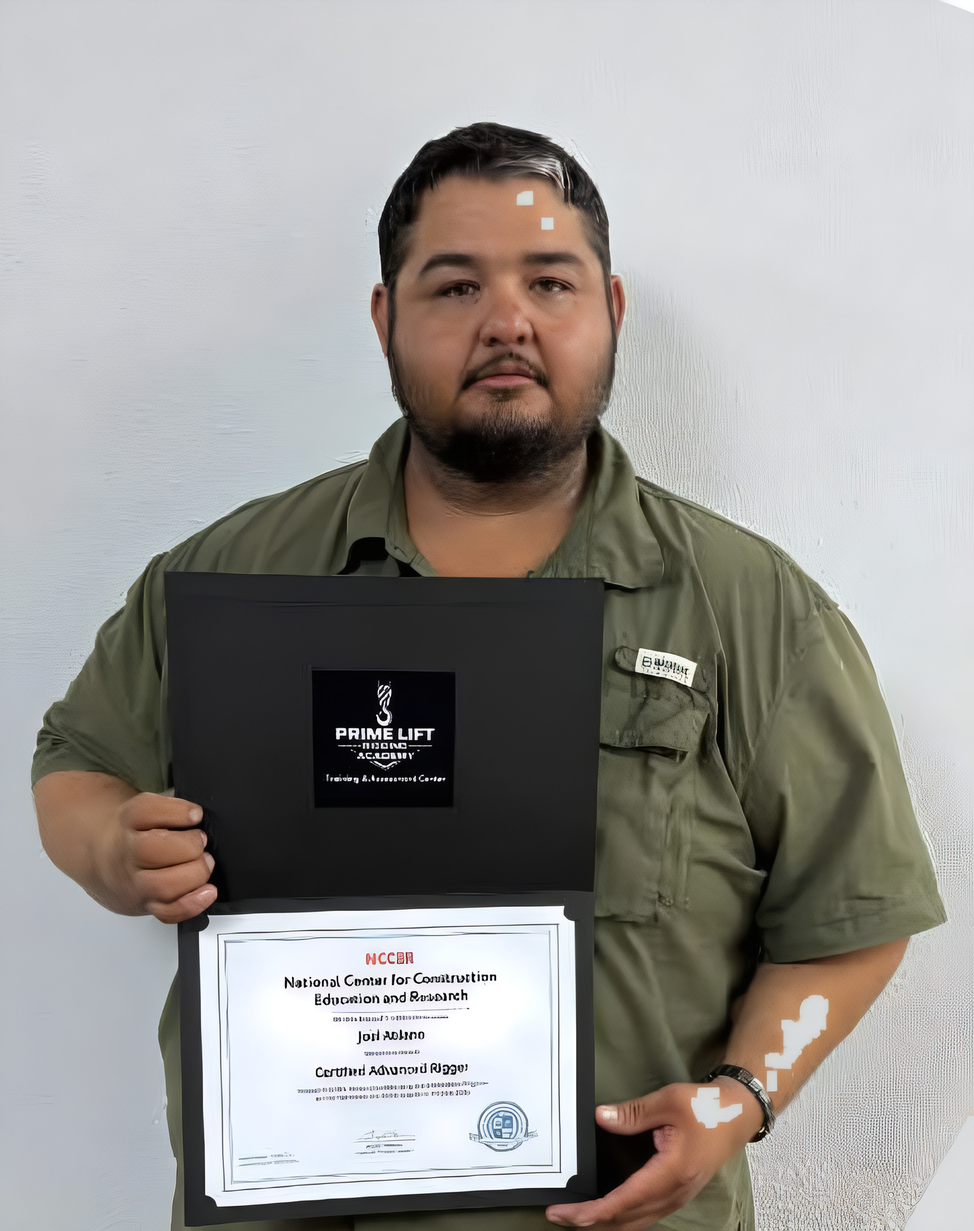
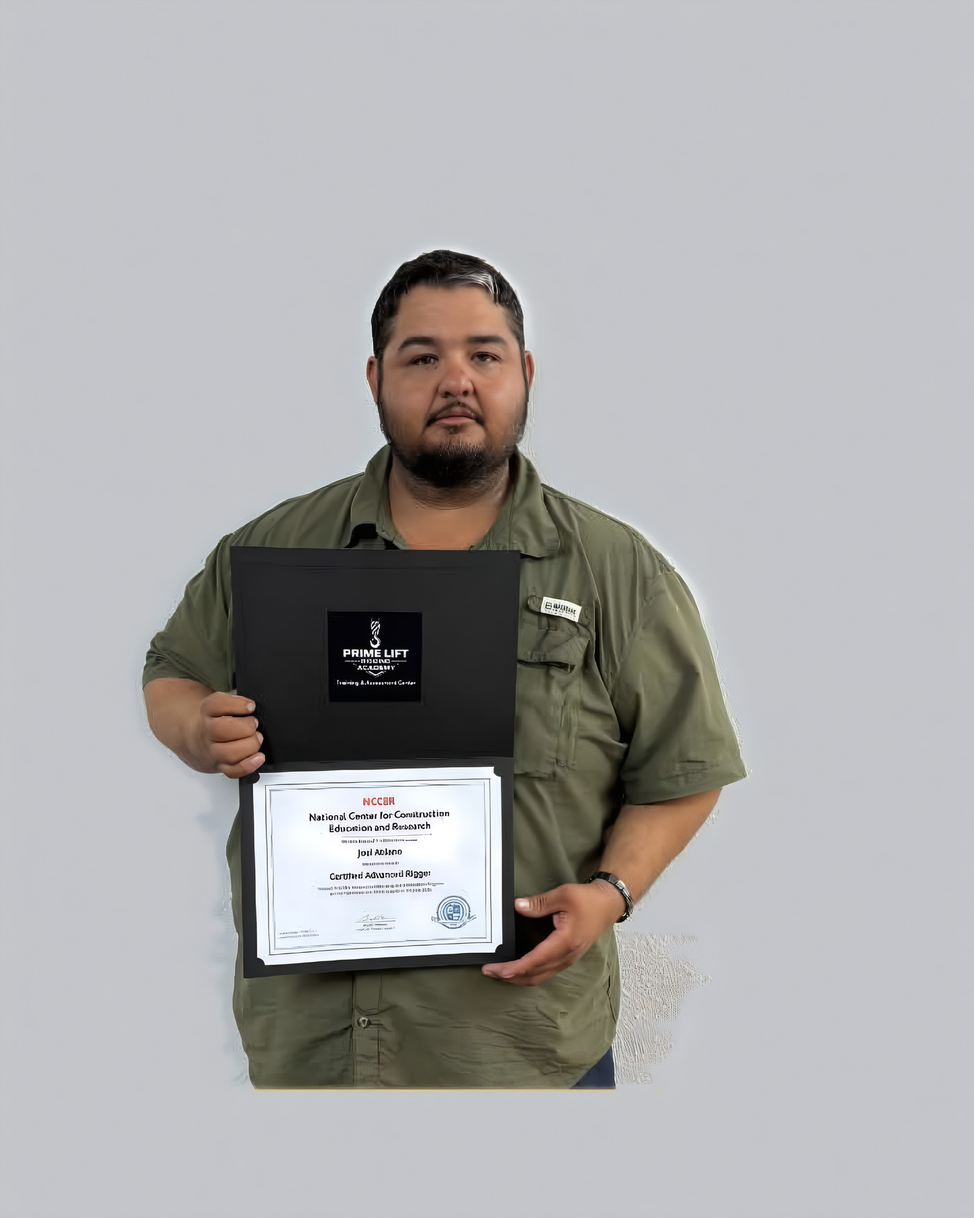
Hero: unified crossfade, Joel photo rebuilt zoomed-out; instructor names in reviews link to their pages
- .hero-slide fades photo, name and quote together; hidden slides visibility:hidden so their links leave the tab order; click on a link inside the hero no longer advances the slide
- Joel A. hero + panel photos rebuilt from the clean composite (flat wall, no forehead artifacts, smaller in frame, 4:5 crop ends at the shirt cut)
- Instructor first names (Frank, Andy/Andres, Juan) inside student reviews link to /instructors/<slug>/: build.py link_names() for generated review cards, hand-linked in index.html hero/gradwall/proof/list; a.iname styles per surface

diff --git a/reviews/index.html b/reviews/index.html
@@ -131,7 +131,7 @@
     <p class="lede">Every review here is from a real student, on Google or Facebook, in their own words.</p>
     <div class="hero-cta"><a class="btn btn-primary" href="https://www.google.com/maps/place/?cid=16553214961176374110" target="_blank" rel="noopener"><svg viewBox="0 0 24 24" fill="currentColor"><path d="M21.35 11.1H12v2.9h5.35c-.25 1.4-1.6 4.1-5.35 4.1a6.1 6.1 0 1 1 0-12.2c1.9 0 3.15.8 3.85 1.5l2.6-2.5A10 10 0 0 0 12 2a10 10 0 1 0 0 20c5.75 0 9.6-4.05 9.6-9.75 0-.65-.1-1.15-.25-1.15z"/></svg> Read Them On Google</a><a class="btn btn-ghost" href="/#schedule">Reserve Your Seat <svg viewBox="0 0 24 24" fill="none" stroke="currentColor" stroke-width="2.4" stroke-linecap="round" stroke-linejoin="round"><path d="M5 12h14"/><path d="m12 5 7 7-7 7"/></svg></a></div>
   </div>
-</section><section class="section"><div class="wrap"><div class="sec-head is-center rv"><p class="eyebrow is-center"><span class="idx">01</span>Reviews</p><h2 class="h-sec">What Students<br>Are Saying</h2></div><div class="rev-grid" data-orphan="2"><article class="rev rv"><span class="rev-quote">&ldquo;</span><span class="stars" role="img" aria-label="5 out of 5 stars"><svg viewBox="0 0 24 24" fill="currentColor"><path d="M12 2.5l2.9 6.1 6.6.8-4.9 4.6 1.3 6.6L12 17.3l-5.9 3.3 1.3-6.6L2.5 9.4l6.6-.8z"/></svg><svg viewBox="0 0 24 24" fill="currentColor"><path d="M12 2.5l2.9 6.1 6.6.8-4.9 4.6 1.3 6.6L12 17.3l-5.9 3.3 1.3-6.6L2.5 9.4l6.6-.8z"/></svg><svg viewBox="0 0 24 24" fill="currentColor"><path d="M12 2.5l2.9 6.1 6.6.8-4.9 4.6 1.3 6.6L12 17.3l-5.9 3.3 1.3-6.6L2.5 9.4l6.6-.8z"/></svg><svg viewBox="0 0 24 24" fill="currentColor"><path d="M12 2.5l2.9 6.1 6.6.8-4.9 4.6 1.3 6.6L12 17.3l-5.9 3.3 1.3-6.6L2.5 9.4l6.6-.8z"/></svg><svg viewBox="0 0 24 24" fill="currentColor"><path d="M12 2.5l2.9 6.1 6.6.8-4.9 4.6 1.3 6.6L12 17.3l-5.9 3.3 1.3-6.6L2.5 9.4l6.6-.8z"/></svg></span><p>Awesome experience, a lot of knowledge on all rigging, from forklifts to rigging I&#x27;ve never even seen or heard of. Great teachers and instructors, Frank and Andy will make sure you understand before moving on to the next lesson. 5/5 stars, highly recommend to any and everybody wanting to get their certifications.</p><div class="rev-who"><svg viewBox="0 0 24 24" fill="currentColor"><path d="M21.35 11.1H12v2.9h5.35c-.25 1.4-1.6 4.1-5.35 4.1a6.1 6.1 0 1 1 0-12.2c1.9 0 3.15.8 3.85 1.5l2.6-2.5A10 10 0 0 0 12 2a10 10 0 1 0 0 20c5.75 0 9.6-4.05 9.6-9.75 0-.65-.1-1.15-.25-1.15z"/></svg><span><b>Ryan P</b><span>5-star review on Google</span></span></div></article><article class="rev rv"><span class="rev-quote">&ldquo;</span><span class="stars" role="img" aria-label="5 out of 5 stars"><svg viewBox="0 0 24 24" fill="currentColor"><path d="M12 2.5l2.9 6.1 6.6.8-4.9 4.6 1.3 6.6L12 17.3l-5.9 3.3 1.3-6.6L2.5 9.4l6.6-.8z"/></svg><svg viewBox="0 0 24 24" fill="currentColor"><path d="M12 2.5l2.9 6.1 6.6.8-4.9 4.6 1.3 6.6L12 17.3l-5.9 3.3 1.3-6.6L2.5 9.4l6.6-.8z"/></svg><svg viewBox="0 0 24 24" fill="currentColor"><path d="M12 2.5l2.9 6.1 6.6.8-4.9 4.6 1.3 6.6L12 17.3l-5.9 3.3 1.3-6.6L2.5 9.4l6.6-.8z"/></svg><svg viewBox="0 0 24 24" fill="currentColor"><path d="M12 2.5l2.9 6.1 6.6.8-4.9 4.6 1.3 6.6L12 17.3l-5.9 3.3 1.3-6.6L2.5 9.4l6.6-.8z"/></svg><svg viewBox="0 0 24 24" fill="currentColor"><path d="M12 2.5l2.9 6.1 6.6.8-4.9 4.6 1.3 6.6L12 17.3l-5.9 3.3 1.3-6.6L2.5 9.4l6.6-.8z"/></svg></span><p>A lot of one-to-one explanation. All questions will be answered directly to you; the teacher will sit there and go over it as many times as you need until you understand. Definitely recommend.</p><div class="rev-who"><svg viewBox="0 0 24 24" fill="currentColor"><path d="M21.35 11.1H12v2.9h5.35c-.25 1.4-1.6 4.1-5.35 4.1a6.1 6.1 0 1 1 0-12.2c1.9 0 3.15.8 3.85 1.5l2.6-2.5A10 10 0 0 0 12 2a10 10 0 1 0 0 20c5.75 0 9.6-4.05 9.6-9.75 0-.65-.1-1.15-.25-1.15z"/></svg><span><b>Joshua Fonseca</b><span>5-star review on Google</span></span></div></article><article class="rev rv"><span class="rev-quote">&ldquo;</span><p>All you need to know, they will teach and guide you thru the process of getting your NCCER certification!</p><div class="rev-who"><svg viewBox="0 0 24 24" fill="currentColor"><path d="M9.101 23.691v-7.98H6.627v-3.667h2.474v-1.58c0-4.085 1.848-5.978 5.858-5.978.401 0 .955.042 1.468.103a8.68 8.68 0 0 1 1.141.195v3.325a8.623 8.623 0 0 0-.653-.036 26.805 26.805 0 0 0-.733-.009c-.707 0-1.259.096-1.675.309a1.686 1.686 0 0 0-.679.622c-.258.42-.374.995-.374 1.752v1.297h3.919l-.386 2.103-.287 1.564h-3.246v8.245C19.396 23.238 24 18.179 24 12.044c0-6.627-5.373-12-12-12s-12 5.373-12 12c0 5.628 3.874 10.35 9.101 11.647Z"/></svg><span><b>Viko Ledesma</b><span>Recommends on Facebook</span></span></div></article><article class="rev rv"><span class="rev-quote">&ldquo;</span><p>It&#x27;s a very great class, a lot of good information, and the instructor did an awesome job explaining the information.</p><div class="rev-who"><svg viewBox="0 0 24 24" fill="currentColor"><path d="M9.101 23.691v-7.98H6.627v-3.667h2.474v-1.58c0-4.085 1.848-5.978 5.858-5.978.401 0 .955.042 1.468.103a8.68 8.68 0 0 1 1.141.195v3.325a8.623 8.623 0 0 0-.653-.036 26.805 26.805 0 0 0-.733-.009c-.707 0-1.259.096-1.675.309a1.686 1.686 0 0 0-.679.622c-.258.42-.374.995-.374 1.752v1.297h3.919l-.386 2.103-.287 1.564h-3.246v8.245C19.396 23.238 24 18.179 24 12.044c0-6.627-5.373-12-12-12s-12 5.373-12 12c0 5.628 3.874 10.35 9.101 11.647Z"/></svg><span><b>Arturo Duran Jr.</b><span>Recommends on Facebook</span></span></div></article><article class="rev rv"><span class="rev-quote">&ldquo;</span><p>Great exercise, very professional. I recommend others to go through Prime Lift Rigging.</p><div class="rev-who"><svg viewBox="0 0 24 24" fill="currentColor"><path d="M9.101 23.691v-7.98H6.627v-3.667h2.474v-1.58c0-4.085 1.848-5.978 5.858-5.978.401 0 .955.042 1.468.103a8.68 8.68 0 0 1 1.141.195v3.325a8.623 8.623 0 0 0-.653-.036 26.805 26.805 0 0 0-.733-.009c-.707 0-1.259.096-1.675.309a1.686 1.686 0 0 0-.679.622c-.258.42-.374.995-.374 1.752v1.297h3.919l-.386 2.103-.287 1.564h-3.246v8.245C19.396 23.238 24 18.179 24 12.044c0-6.627-5.373-12-12-12s-12 5.373-12 12c0 5.628 3.874 10.35 9.101 11.647Z"/></svg><span><b>Michael Cervantes</b><span>Recommends on Facebook</span></span></div></article></div>
+</section><section class="section"><div class="wrap"><div class="sec-head is-center rv"><p class="eyebrow is-center"><span class="idx">01</span>Reviews</p><h2 class="h-sec">What Students<br>Are Saying</h2></div><div class="rev-grid" data-orphan="2"><article class="rev rv"><span class="rev-quote">&ldquo;</span><span class="stars" role="img" aria-label="5 out of 5 stars"><svg viewBox="0 0 24 24" fill="currentColor"><path d="M12 2.5l2.9 6.1 6.6.8-4.9 4.6 1.3 6.6L12 17.3l-5.9 3.3 1.3-6.6L2.5 9.4l6.6-.8z"/></svg><svg viewBox="0 0 24 24" fill="currentColor"><path d="M12 2.5l2.9 6.1 6.6.8-4.9 4.6 1.3 6.6L12 17.3l-5.9 3.3 1.3-6.6L2.5 9.4l6.6-.8z"/></svg><svg viewBox="0 0 24 24" fill="currentColor"><path d="M12 2.5l2.9 6.1 6.6.8-4.9 4.6 1.3 6.6L12 17.3l-5.9 3.3 1.3-6.6L2.5 9.4l6.6-.8z"/></svg><svg viewBox="0 0 24 24" fill="currentColor"><path d="M12 2.5l2.9 6.1 6.6.8-4.9 4.6 1.3 6.6L12 17.3l-5.9 3.3 1.3-6.6L2.5 9.4l6.6-.8z"/></svg><svg viewBox="0 0 24 24" fill="currentColor"><path d="M12 2.5l2.9 6.1 6.6.8-4.9 4.6 1.3 6.6L12 17.3l-5.9 3.3 1.3-6.6L2.5 9.4l6.6-.8z"/></svg></span><p>Awesome experience, a lot of knowledge on all rigging, from forklifts to rigging I&#x27;ve never even seen or heard of. Great teachers and instructors, <a class="iname" href="/instructors/frank-torres/" title="Meet Frank Torres, Advanced Rigging Instructor">Frank</a> and <a class="iname" href="/instructors/andres-herrera/" title="Meet Andres Herrera, Co-Founder · NCCER Practical Examiner">Andy</a> will make sure you understand before moving on to the next lesson. 5/5 stars, highly recommend to any and everybody wanting to get their certifications.</p><div class="rev-who"><svg viewBox="0 0 24 24" fill="currentColor"><path d="M21.35 11.1H12v2.9h5.35c-.25 1.4-1.6 4.1-5.35 4.1a6.1 6.1 0 1 1 0-12.2c1.9 0 3.15.8 3.85 1.5l2.6-2.5A10 10 0 0 0 12 2a10 10 0 1 0 0 20c5.75 0 9.6-4.05 9.6-9.75 0-.65-.1-1.15-.25-1.15z"/></svg><span><b>Ryan P</b><span>5-star review on Google</span></span></div></article><article class="rev rv"><span class="rev-quote">&ldquo;</span><span class="stars" role="img" aria-label="5 out of 5 stars"><svg viewBox="0 0 24 24" fill="currentColor"><path d="M12 2.5l2.9 6.1 6.6.8-4.9 4.6 1.3 6.6L12 17.3l-5.9 3.3 1.3-6.6L2.5 9.4l6.6-.8z"/></svg><svg viewBox="0 0 24 24" fill="currentColor"><path d="M12 2.5l2.9 6.1 6.6.8-4.9 4.6 1.3 6.6L12 17.3l-5.9 3.3 1.3-6.6L2.5 9.4l6.6-.8z"/></svg><svg viewBox="0 0 24 24" fill="currentColor"><path d="M12 2.5l2.9 6.1 6.6.8-4.9 4.6 1.3 6.6L12 17.3l-5.9 3.3 1.3-6.6L2.5 9.4l6.6-.8z"/></svg><svg viewBox="0 0 24 24" fill="currentColor"><path d="M12 2.5l2.9 6.1 6.6.8-4.9 4.6 1.3 6.6L12 17.3l-5.9 3.3 1.3-6.6L2.5 9.4l6.6-.8z"/></svg><svg viewBox="0 0 24 24" fill="currentColor"><path d="M12 2.5l2.9 6.1 6.6.8-4.9 4.6 1.3 6.6L12 17.3l-5.9 3.3 1.3-6.6L2.5 9.4l6.6-.8z"/></svg></span><p>A lot of one-to-one explanation. All questions will be answered directly to you; the teacher will sit there and go over it as many times as you need until you understand. Definitely recommend.</p><div class="rev-who"><svg viewBox="0 0 24 24" fill="currentColor"><path d="M21.35 11.1H12v2.9h5.35c-.25 1.4-1.6 4.1-5.35 4.1a6.1 6.1 0 1 1 0-12.2c1.9 0 3.15.8 3.85 1.5l2.6-2.5A10 10 0 0 0 12 2a10 10 0 1 0 0 20c5.75 0 9.6-4.05 9.6-9.75 0-.65-.1-1.15-.25-1.15z"/></svg><span><b>Joshua Fonseca</b><span>5-star review on Google</span></span></div></article><article class="rev rv"><span class="rev-quote">&ldquo;</span><p>All you need to know, they will teach and guide you thru the process of getting your NCCER certification!</p><div class="rev-who"><svg viewBox="0 0 24 24" fill="currentColor"><path d="M9.101 23.691v-7.98H6.627v-3.667h2.474v-1.58c0-4.085 1.848-5.978 5.858-5.978.401 0 .955.042 1.468.103a8.68 8.68 0 0 1 1.141.195v3.325a8.623 8.623 0 0 0-.653-.036 26.805 26.805 0 0 0-.733-.009c-.707 0-1.259.096-1.675.309a1.686 1.686 0 0 0-.679.622c-.258.42-.374.995-.374 1.752v1.297h3.919l-.386 2.103-.287 1.564h-3.246v8.245C19.396 23.238 24 18.179 24 12.044c0-6.627-5.373-12-12-12s-12 5.373-12 12c0 5.628 3.874 10.35 9.101 11.647Z"/></svg><span><b>Viko Ledesma</b><span>Recommends on Facebook</span></span></div></article><article class="rev rv"><span class="rev-quote">&ldquo;</span><p>It&#x27;s a very great class, a lot of good information, and the instructor did an awesome job explaining the information.</p><div class="rev-who"><svg viewBox="0 0 24 24" fill="currentColor"><path d="M9.101 23.691v-7.98H6.627v-3.667h2.474v-1.58c0-4.085 1.848-5.978 5.858-5.978.401 0 .955.042 1.468.103a8.68 8.68 0 0 1 1.141.195v3.325a8.623 8.623 0 0 0-.653-.036 26.805 26.805 0 0 0-.733-.009c-.707 0-1.259.096-1.675.309a1.686 1.686 0 0 0-.679.622c-.258.42-.374.995-.374 1.752v1.297h3.919l-.386 2.103-.287 1.564h-3.246v8.245C19.396 23.238 24 18.179 24 12.044c0-6.627-5.373-12-12-12s-12 5.373-12 12c0 5.628 3.874 10.35 9.101 11.647Z"/></svg><span><b>Arturo Duran Jr.</b><span>Recommends on Facebook</span></span></div></article><article class="rev rv"><span class="rev-quote">&ldquo;</span><p>Great exercise, very professional. I recommend others to go through Prime Lift Rigging.</p><div class="rev-who"><svg viewBox="0 0 24 24" fill="currentColor"><path d="M9.101 23.691v-7.98H6.627v-3.667h2.474v-1.58c0-4.085 1.848-5.978 5.858-5.978.401 0 .955.042 1.468.103a8.68 8.68 0 0 1 1.141.195v3.325a8.623 8.623 0 0 0-.653-.036 26.805 26.805 0 0 0-.733-.009c-.707 0-1.259.096-1.675.309a1.686 1.686 0 0 0-.679.622c-.258.42-.374.995-.374 1.752v1.297h3.919l-.386 2.103-.287 1.564h-3.246v8.245C19.396 23.238 24 18.179 24 12.044c0-6.627-5.373-12-12-12s-12 5.373-12 12c0 5.628 3.874 10.35 9.101 11.647Z"/></svg><span><b>Michael Cervantes</b><span>Recommends on Facebook</span></span></div></article></div>
   <div class="gal rv">
     <figure><img src="/img/grad-johnny.jpg" alt="Prime Lift graduate holding an NCCER Certified Advanced Rigger certificate" loading="lazy"><figcaption>Certified Advanced Rigger</figcaption></figure>
     <figure><img src="/img/grad-leonel.jpg" alt="Prime Lift graduate holding an NCCER Certified Advanced Rigger certificate" loading="lazy"><figcaption>Certified Advanced Rigger</figcaption></figure>

diff --git a/instructors/index.html b/instructors/index.html
@@ -143,7 +143,7 @@
       <a class="person rv" href="/instructors/frank-torres/">
         <div class="person-img"><img src="/img/team-frank.jpg" alt="Frank Torres at a heavy lift jobsite with crawler cranes" loading="lazy"></div>
         <div class="person-body"><span class="person-role">Advanced Rigging Instructor</span><h3>Frank Torres</h3><p>Frank is an NCCER Advanced Rigger and Signal Person with more than 10 years of crane and rigging experience, and he brings all of it into the classroom.</p><span class="person-more">Read more <svg viewBox="0 0 24 24" fill="none" stroke="currentColor" stroke-width="2.4" stroke-linecap="round" stroke-linejoin="round"><path d="M5 12h14"/><path d="m12 5 7 7-7 7"/></svg></span></div>
-      </a></div></div></section><section class="section alt"><div class="wrap"><div class="sec-head is-center rv"><p class="eyebrow is-center"><span class="idx">02</span>Straight From Our Students</p><h2 class="h-sec">What Students Say<br>About The Teaching</h2></div><div class="rev-grid" data-orphan="0"><article class="rev rv"><span class="rev-quote">&ldquo;</span><span class="stars" role="img" aria-label="5 out of 5 stars"><svg viewBox="0 0 24 24" fill="currentColor"><path d="M12 2.5l2.9 6.1 6.6.8-4.9 4.6 1.3 6.6L12 17.3l-5.9 3.3 1.3-6.6L2.5 9.4l6.6-.8z"/></svg><svg viewBox="0 0 24 24" fill="currentColor"><path d="M12 2.5l2.9 6.1 6.6.8-4.9 4.6 1.3 6.6L12 17.3l-5.9 3.3 1.3-6.6L2.5 9.4l6.6-.8z"/></svg><svg viewBox="0 0 24 24" fill="currentColor"><path d="M12 2.5l2.9 6.1 6.6.8-4.9 4.6 1.3 6.6L12 17.3l-5.9 3.3 1.3-6.6L2.5 9.4l6.6-.8z"/></svg><svg viewBox="0 0 24 24" fill="currentColor"><path d="M12 2.5l2.9 6.1 6.6.8-4.9 4.6 1.3 6.6L12 17.3l-5.9 3.3 1.3-6.6L2.5 9.4l6.6-.8z"/></svg><svg viewBox="0 0 24 24" fill="currentColor"><path d="M12 2.5l2.9 6.1 6.6.8-4.9 4.6 1.3 6.6L12 17.3l-5.9 3.3 1.3-6.6L2.5 9.4l6.6-.8z"/></svg></span><p>Awesome experience, a lot of knowledge on all rigging, from forklifts to rigging I&#x27;ve never even seen or heard of. Great teachers and instructors, Frank and Andy will make sure you understand before moving on to the next lesson. 5/5 stars, highly recommend to any and everybody wanting to get their certifications.</p><div class="rev-who"><svg viewBox="0 0 24 24" fill="currentColor"><path d="M21.35 11.1H12v2.9h5.35c-.25 1.4-1.6 4.1-5.35 4.1a6.1 6.1 0 1 1 0-12.2c1.9 0 3.15.8 3.85 1.5l2.6-2.5A10 10 0 0 0 12 2a10 10 0 1 0 0 20c5.75 0 9.6-4.05 9.6-9.75 0-.65-.1-1.15-.25-1.15z"/></svg><span><b>Ryan P</b><span>5-star review on Google</span></span></div></article><article class="rev rv"><span class="rev-quote">&ldquo;</span><span class="stars" role="img" aria-label="5 out of 5 stars"><svg viewBox="0 0 24 24" fill="currentColor"><path d="M12 2.5l2.9 6.1 6.6.8-4.9 4.6 1.3 6.6L12 17.3l-5.9 3.3 1.3-6.6L2.5 9.4l6.6-.8z"/></svg><svg viewBox="0 0 24 24" fill="currentColor"><path d="M12 2.5l2.9 6.1 6.6.8-4.9 4.6 1.3 6.6L12 17.3l-5.9 3.3 1.3-6.6L2.5 9.4l6.6-.8z"/></svg><svg viewBox="0 0 24 24" fill="currentColor"><path d="M12 2.5l2.9 6.1 6.6.8-4.9 4.6 1.3 6.6L12 17.3l-5.9 3.3 1.3-6.6L2.5 9.4l6.6-.8z"/></svg><svg viewBox="0 0 24 24" fill="currentColor"><path d="M12 2.5l2.9 6.1 6.6.8-4.9 4.6 1.3 6.6L12 17.3l-5.9 3.3 1.3-6.6L2.5 9.4l6.6-.8z"/></svg><svg viewBox="0 0 24 24" fill="currentColor"><path d="M12 2.5l2.9 6.1 6.6.8-4.9 4.6 1.3 6.6L12 17.3l-5.9 3.3 1.3-6.6L2.5 9.4l6.6-.8z"/></svg></span><p>A lot of one-to-one explanation. All questions will be answered directly to you; the teacher will sit there and go over it as many times as you need until you understand. Definitely recommend.</p><div class="rev-who"><svg viewBox="0 0 24 24" fill="currentColor"><path d="M21.35 11.1H12v2.9h5.35c-.25 1.4-1.6 4.1-5.35 4.1a6.1 6.1 0 1 1 0-12.2c1.9 0 3.15.8 3.85 1.5l2.6-2.5A10 10 0 0 0 12 2a10 10 0 1 0 0 20c5.75 0 9.6-4.05 9.6-9.75 0-.65-.1-1.15-.25-1.15z"/></svg><span><b>Joshua Fonseca</b><span>5-star review on Google</span></span></div></article><article class="rev rv"><span class="rev-quote">&ldquo;</span><p>It&#x27;s a very great class, a lot of good information, and the instructor did an awesome job explaining the information.</p><div class="rev-who"><svg viewBox="0 0 24 24" fill="currentColor"><path d="M9.101 23.691v-7.98H6.627v-3.667h2.474v-1.58c0-4.085 1.848-5.978 5.858-5.978.401 0 .955.042 1.468.103a8.68 8.68 0 0 1 1.141.195v3.325a8.623 8.623 0 0 0-.653-.036 26.805 26.805 0 0 0-.733-.009c-.707 0-1.259.096-1.675.309a1.686 1.686 0 0 0-.679.622c-.258.42-.374.995-.374 1.752v1.297h3.919l-.386 2.103-.287 1.564h-3.246v8.245C19.396 23.238 24 18.179 24 12.044c0-6.627-5.373-12-12-12s-12 5.373-12 12c0 5.628 3.874 10.35 9.101 11.647Z"/></svg><span><b>Arturo Duran Jr.</b><span>Recommends on Facebook</span></span></div></article></div></div></section><section class="band">
+      </a></div></div></section><section class="section alt"><div class="wrap"><div class="sec-head is-center rv"><p class="eyebrow is-center"><span class="idx">02</span>Straight From Our Students</p><h2 class="h-sec">What Students Say<br>About The Teaching</h2></div><div class="rev-grid" data-orphan="0"><article class="rev rv"><span class="rev-quote">&ldquo;</span><span class="stars" role="img" aria-label="5 out of 5 stars"><svg viewBox="0 0 24 24" fill="currentColor"><path d="M12 2.5l2.9 6.1 6.6.8-4.9 4.6 1.3 6.6L12 17.3l-5.9 3.3 1.3-6.6L2.5 9.4l6.6-.8z"/></svg><svg viewBox="0 0 24 24" fill="currentColor"><path d="M12 2.5l2.9 6.1 6.6.8-4.9 4.6 1.3 6.6L12 17.3l-5.9 3.3 1.3-6.6L2.5 9.4l6.6-.8z"/></svg><svg viewBox="0 0 24 24" fill="currentColor"><path d="M12 2.5l2.9 6.1 6.6.8-4.9 4.6 1.3 6.6L12 17.3l-5.9 3.3 1.3-6.6L2.5 9.4l6.6-.8z"/></svg><svg viewBox="0 0 24 24" fill="currentColor"><path d="M12 2.5l2.9 6.1 6.6.8-4.9 4.6 1.3 6.6L12 17.3l-5.9 3.3 1.3-6.6L2.5 9.4l6.6-.8z"/></svg><svg viewBox="0 0 24 24" fill="currentColor"><path d="M12 2.5l2.9 6.1 6.6.8-4.9 4.6 1.3 6.6L12 17.3l-5.9 3.3 1.3-6.6L2.5 9.4l6.6-.8z"/></svg></span><p>Awesome experience, a lot of knowledge on all rigging, from forklifts to rigging I&#x27;ve never even seen or heard of. Great teachers and instructors, <a class="iname" href="/instructors/frank-torres/" title="Meet Frank Torres, Advanced Rigging Instructor">Frank</a> and <a class="iname" href="/instructors/andres-herrera/" title="Meet Andres Herrera, Co-Founder · NCCER Practical Examiner">Andy</a> will make sure you understand before moving on to the next lesson. 5/5 stars, highly recommend to any and everybody wanting to get their certifications.</p><div class="rev-who"><svg viewBox="0 0 24 24" fill="currentColor"><path d="M21.35 11.1H12v2.9h5.35c-.25 1.4-1.6 4.1-5.35 4.1a6.1 6.1 0 1 1 0-12.2c1.9 0 3.15.8 3.85 1.5l2.6-2.5A10 10 0 0 0 12 2a10 10 0 1 0 0 20c5.75 0 9.6-4.05 9.6-9.75 0-.65-.1-1.15-.25-1.15z"/></svg><span><b>Ryan P</b><span>5-star review on Google</span></span></div></article><article class="rev rv"><span class="rev-quote">&ldquo;</span><span class="stars" role="img" aria-label="5 out of 5 stars"><svg viewBox="0 0 24 24" fill="currentColor"><path d="M12 2.5l2.9 6.1 6.6.8-4.9 4.6 1.3 6.6L12 17.3l-5.9 3.3 1.3-6.6L2.5 9.4l6.6-.8z"/></svg><svg viewBox="0 0 24 24" fill="currentColor"><path d="M12 2.5l2.9 6.1 6.6.8-4.9 4.6 1.3 6.6L12 17.3l-5.9 3.3 1.3-6.6L2.5 9.4l6.6-.8z"/></svg><svg viewBox="0 0 24 24" fill="currentColor"><path d="M12 2.5l2.9 6.1 6.6.8-4.9 4.6 1.3 6.6L12 17.3l-5.9 3.3 1.3-6.6L2.5 9.4l6.6-.8z"/></svg><svg viewBox="0 0 24 24" fill="currentColor"><path d="M12 2.5l2.9 6.1 6.6.8-4.9 4.6 1.3 6.6L12 17.3l-5.9 3.3 1.3-6.6L2.5 9.4l6.6-.8z"/></svg><svg viewBox="0 0 24 24" fill="currentColor"><path d="M12 2.5l2.9 6.1 6.6.8-4.9 4.6 1.3 6.6L12 17.3l-5.9 3.3 1.3-6.6L2.5 9.4l6.6-.8z"/></svg></span><p>A lot of one-to-one explanation. All questions will be answered directly to you; the teacher will sit there and go over it as many times as you need until you understand. Definitely recommend.</p><div class="rev-who"><svg viewBox="0 0 24 24" fill="currentColor"><path d="M21.35 11.1H12v2.9h5.35c-.25 1.4-1.6 4.1-5.35 4.1a6.1 6.1 0 1 1 0-12.2c1.9 0 3.15.8 3.85 1.5l2.6-2.5A10 10 0 0 0 12 2a10 10 0 1 0 0 20c5.75 0 9.6-4.05 9.6-9.75 0-.65-.1-1.15-.25-1.15z"/></svg><span><b>Joshua Fonseca</b><span>5-star review on Google</span></span></div></article><article class="rev rv"><span class="rev-quote">&ldquo;</span><p>It&#x27;s a very great class, a lot of good information, and the instructor did an awesome job explaining the information.</p><div class="rev-who"><svg viewBox="0 0 24 24" fill="currentColor"><path d="M9.101 23.691v-7.98H6.627v-3.667h2.474v-1.58c0-4.085 1.848-5.978 5.858-5.978.401 0 .955.042 1.468.103a8.68 8.68 0 0 1 1.141.195v3.325a8.623 8.623 0 0 0-.653-.036 26.805 26.805 0 0 0-.733-.009c-.707 0-1.259.096-1.675.309a1.686 1.686 0 0 0-.679.622c-.258.42-.374.995-.374 1.752v1.297h3.919l-.386 2.103-.287 1.564h-3.246v8.245C19.396 23.238 24 18.179 24 12.044c0-6.627-5.373-12-12-12s-12 5.373-12 12c0 5.628 3.874 10.35 9.101 11.647Z"/></svg><span><b>Arturo Duran Jr.</b><span>Recommends on Facebook</span></span></div></article></div></div></section><section class="band">
   <div class="band-bg" aria-hidden="true"><img src="/img/bg-crane-golden.jpg" alt="" loading="lazy"></div>
   <div class="wrap band-in rv">
     <div class="chev-div"><img class="chev" src="/img/chevron.png" alt=""></div>

diff --git a/index.html b/index.html
@@ -169,7 +169,7 @@
           <img src="img/grad-dustin.jpg" alt="Dustin T., a Prime Lift graduate, holding his NCCER Certified Advanced Rigger certificate" width="1400" height="1750" fetchpriority="high">
           <figcaption><b>Dustin T.</b><span>Certified Advanced Rigger</span></figcaption>
         </figure>
-        <q>Best class ever. They give all the information so you don't fail. Frank and Andy do an excellent job to make sure you are trained right.</q>
+        <q>Best class ever. They give all the information so you don't fail. <a class="iname" href="/instructors/frank-torres/" title="Meet Frank Torres, Advanced Rigging Instructor">Frank</a> and <a class="iname" href="/instructors/andres-herrera/" title="Meet Andres Herrera, NCCER Practical Examiner">Andy</a> do an excellent job to make sure you are trained right.</q>
       </div>
       <div class="hero-slide">
         <figure class="hero-photo">
@@ -198,7 +198,7 @@
         <h2 class="h-sec">Trained Today.<br>Trusted Tomorrow.</h2>
       </div>
       <blockquote class="gw-quote rv">
-        <p>&ldquo;Great teachers and instructors. Frank and Andy will make sure you understand before moving on to the next lesson. 5/5 stars, highly recommend.&rdquo;</p>
+        <p>&ldquo;Great teachers and instructors. <a class="iname" href="/instructors/frank-torres/" title="Meet Frank Torres, Advanced Rigging Instructor">Frank</a> and <a class="iname" href="/instructors/andres-herrera/" title="Meet Andres Herrera, NCCER Practical Examiner">Andy</a> will make sure you understand before moving on to the next lesson. 5/5 stars, highly recommend.&rdquo;</p>
         <cite><b>Ryan P</b><span>5-star review on Google</span></cite>
       </blockquote>
     </div>
@@ -514,7 +514,7 @@
       </article>
       <article class="rv-panel ink">
         <span class="big-q" aria-hidden="true">&ldquo;</span>
-        <div class="who"><b>Ryan P</b><p>&ldquo;Awesome experience, a lot of knowledge on all rigging, from forklifts to rigging I've never even seen or heard of. Great teachers and instructors, Frank and Andy will make sure you understand before moving on to the next lesson. 5/5 stars, highly recommend to any and everybody wanting to get their certifications.&rdquo;</p><small>5-star review on Google</small></div>
+        <div class="who"><b>Ryan P</b><p>&ldquo;Awesome experience, a lot of knowledge on all rigging, from forklifts to rigging I've never even seen or heard of. Great teachers and instructors, <a class="iname" href="/instructors/frank-torres/" title="Meet Frank Torres, Advanced Rigging Instructor">Frank</a> and <a class="iname" href="/instructors/andres-herrera/" title="Meet Andres Herrera, NCCER Practical Examiner">Andy</a> will make sure you understand before moving on to the next lesson. 5/5 stars, highly recommend to any and everybody wanting to get their certifications.&rdquo;</p><small>5-star review on Google</small></div>
       </article>
     </div>
 
@@ -533,7 +533,7 @@
       </article>
       <article>
         <svg viewBox="0 0 24 24" fill="currentColor"><path d="M21.35 11.1H12v2.9h5.35c-.25 1.4-1.6 4.1-5.35 4.1a6.1 6.1 0 1 1 0-12.2c1.9 0 3.15.8 3.85 1.5l2.6-2.5A10 10 0 0 0 12 2a10 10 0 1 0 0 20c5.75 0 9.6-4.05 9.6-9.75 0-.65-.1-1.15-.25-1.15z"/></svg>
-        <div><p>Best class ever. They give all the information so you don't fail. Frank and Andy do an excellent job to make sure you are trained right.</p><b>Dustin T.</b><small>Certified Advanced Rigger</small></div>
+        <div><p>Best class ever. They give all the information so you don't fail. <a class="iname" href="/instructors/frank-torres/" title="Meet Frank Torres, Advanced Rigging Instructor">Frank</a> and <a class="iname" href="/instructors/andres-herrera/" title="Meet Andres Herrera, NCCER Practical Examiner">Andy</a> do an excellent job to make sure you are trained right.</p><b>Dustin T.</b><small>Certified Advanced Rigger</small></div>
       </article>
     </div>
   </div>
@@ -1413,7 +1413,7 @@ $$(".nm-item").forEach(a=>a.addEventListener("click",()=>{
   const stop=()=>{ if(t){ clearInterval(t); t=null; } };
   const start=()=>{ if(reduce||t) return; t=setInterval(()=>go(i+1),6500); };
   fig.addEventListener("pointerenter",stop); fig.addEventListener("pointerleave",start);
-  fig.addEventListener("click",()=>{ go(i+1); stop(); start(); });
+  fig.addEventListener("click",e=>{ if(e.target.closest("a")) return; go(i+1); stop(); start(); });
   new IntersectionObserver(e=>{ e[0].isIntersecting?start():stop(); },{threshold:.3}).observe(fig);
 })();
 </script>

diff --git a/css/site.css b/css/site.css
@@ -1513,15 +1513,21 @@ p:last-child{margin-bottom:0}
 @media(min-width:900px){.hero-in{padding-top:148px}}
 /* hero graduates rotate: slides stack, JS holds the container at the tallest slide */
 .hero-fig{position:relative; cursor:pointer}
-.hero-slide{position:absolute; inset:0 0 auto 0; opacity:0; transition:opacity .9s ease; pointer-events:none}
-.hero-slide.on{opacity:1; pointer-events:auto}
+/* photo, name and quote fade as one: the slide's own opacity carries all three;
+   hidden slides also drop out of the tab order so their instructor links can't be focused */
+.hero-slide{position:absolute; inset:0 0 auto 0; opacity:0; visibility:hidden; pointer-events:none; transition:opacity .7s ease, visibility 0s linear .7s}
+.hero-slide.on{opacity:1; visibility:visible; pointer-events:auto; transition:opacity .7s ease, visibility 0s}
 .hero-slide .hero-photo{width:100%}
 @media(max-width:899px){
   .hero-slide{display:flex; flex-direction:column; align-items:center}
   .hero-slide q{position:static; order:-1; display:block; margin:0 auto 14px; max-width:96%; text-align:center; transform:skewX(-4deg)}
 }
 @media(prefers-reduced-motion:reduce){.hero-slide{transition:none}}
-/* text hands off cleanly: outgoing quote/name drop first, incoming ones arrive after the photo has faded */
-.hero-slide q,.hero-slide figcaption{transition:opacity .35s ease}
-.hero-slide:not(.on) q,.hero-slide:not(.on) figcaption{opacity:0}
-.hero-slide.on q,.hero-slide.on figcaption{transition-delay:.5s}
+
+/* ---- instructor names inside student reviews link to that instructor's page ---- */
+a.iname{color:inherit; text-decoration:underline; text-decoration-thickness:2px; text-underline-offset:3px; text-decoration-color:var(--accent); transition:color .18s ease, text-decoration-color .18s ease}
+a.iname:hover{color:var(--accent); text-decoration-color:currentColor}
+.hero-fig q a.iname, .rv-panel.blue a.iname{text-decoration-color:rgba(4,22,31,.5)}
+.hero-fig q a.iname:hover, .rv-panel.blue a.iname:hover{color:#fff; text-decoration-color:#fff}
+.rv-panel.ink a.iname{text-decoration-color:rgba(41,182,232,.45)}
+.rv-panel.ink a.iname:hover{color:#fff; text-decoration-color:#fff}

diff --git a/build.py b/build.py
@@ -420,11 +420,24 @@ def band(h2="Building Skills.<br class=\"mbr\"> Bettering Futures.", p="Spots ar
   </div>
 </section>""" % (esc(eyebrow), h2, esc(p), primary, BIZ["phone_raw"], esc(call), BIZ["phone"])
 
+# Student reviews that name an instructor link that name to his page.
+# First names come from PEOPLE; students call Andres "Andy" in the reviews.
+INSTRUCTOR_LINKS = {p["name"].split()[0]: p for p in PEOPLE}
+INSTRUCTOR_LINKS["Andy"] = INSTRUCTOR_LINKS["Andres"]
+_INSTRUCTOR_RE = re.compile(r"\b(%s)\b" % "|".join(sorted(INSTRUCTOR_LINKS, key=len, reverse=True)))
+
+def link_names(t):
+    """t is already HTML-escaped review text."""
+    def sub(m):
+        p = INSTRUCTOR_LINKS[m.group(1)]
+        return '<a class="iname" href="/instructors/%s/" title="Meet %s, %s">%s</a>' % (p["slug"], esc(p["name"]), esc(p["role"]), m.group(1))
+    return _INSTRUCTOR_RE.sub(sub, t)
+
 def review_card(r):
     src = ('%s<span><b>%s</b><span>5-star review on Google</span></span>' % (I["google"], esc(r["who"]))) if r["src"] == "google" \
         else ('%s<span><b>%s</b><span>Recommends on Facebook</span></span>' % (I["fb"], esc(r["who"])))
     stars = ('<span class="stars" role="img" aria-label="5 out of 5 stars">%s</span>' % (I["star"] * 5)) if r["src"] == "google" else ""
-    return '<article class="rev rv"><span class="rev-quote">&ldquo;</span>%s<p>%s</p><div class="rev-who">%s</div></article>' % (stars, esc(r["text"]), src)
+    return '<article class="rev rv"><span class="rev-quote">&ldquo;</span>%s<p>%s</p><div class="rev-who">%s</div></article>' % (stars, link_names(esc(r["text"])), src)
 
 def rev_grid(revs):
     return '<div class="rev-grid" data-orphan="%d">%s</div>' % (len(revs) % 3, "".join(review_card(r) for r in revs))
